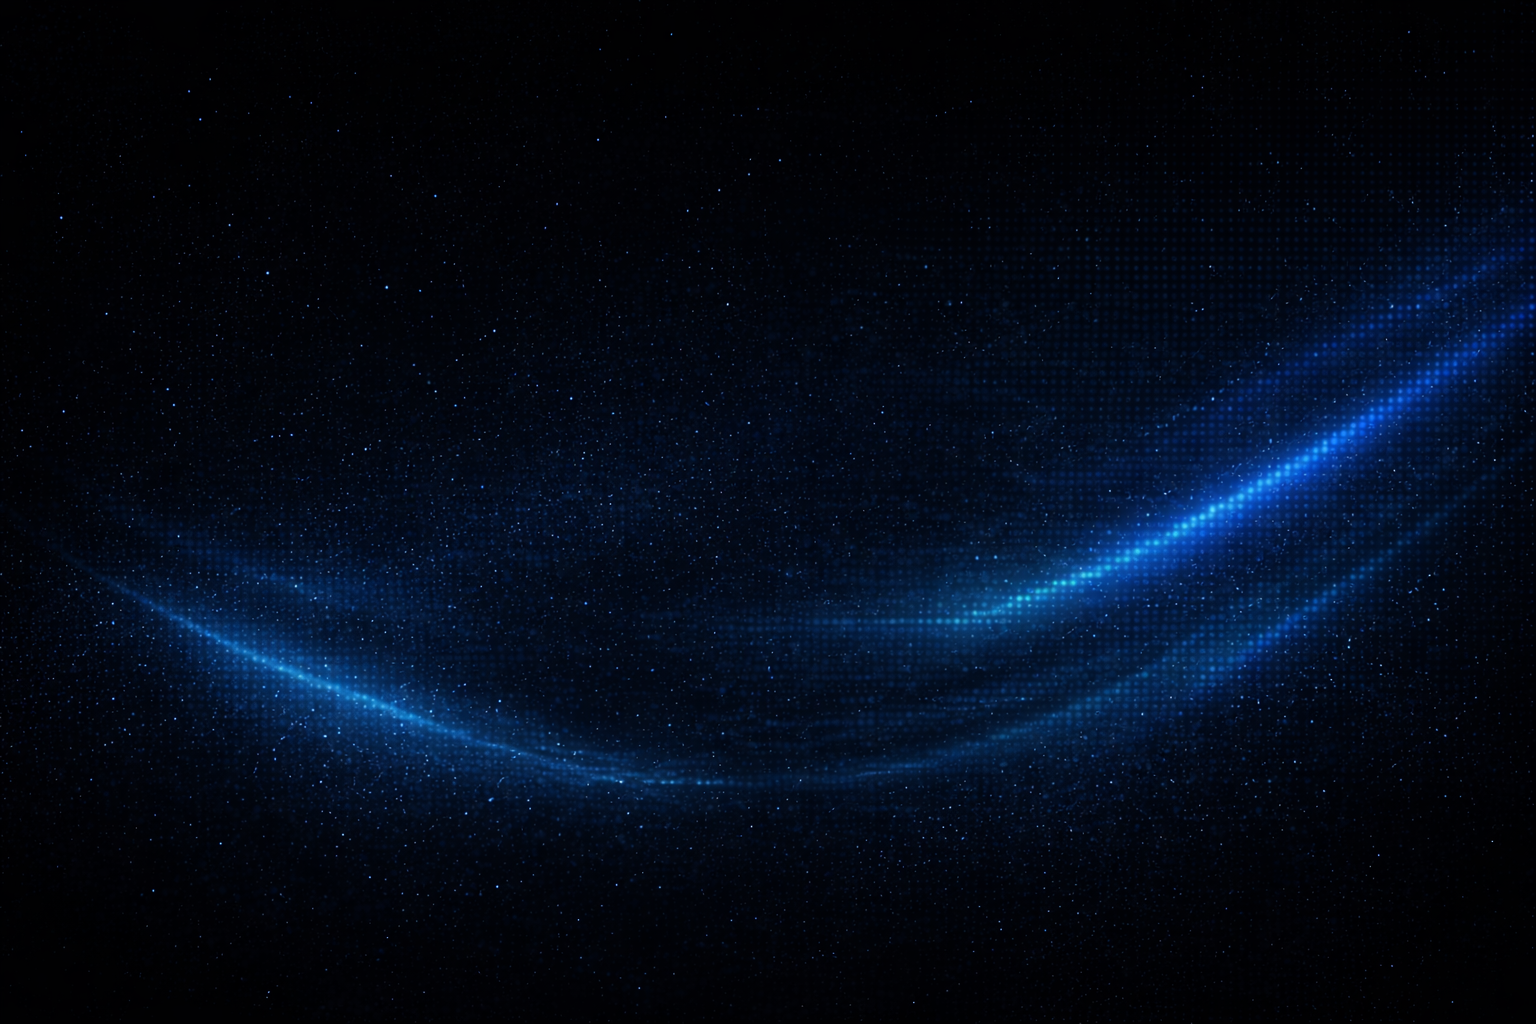
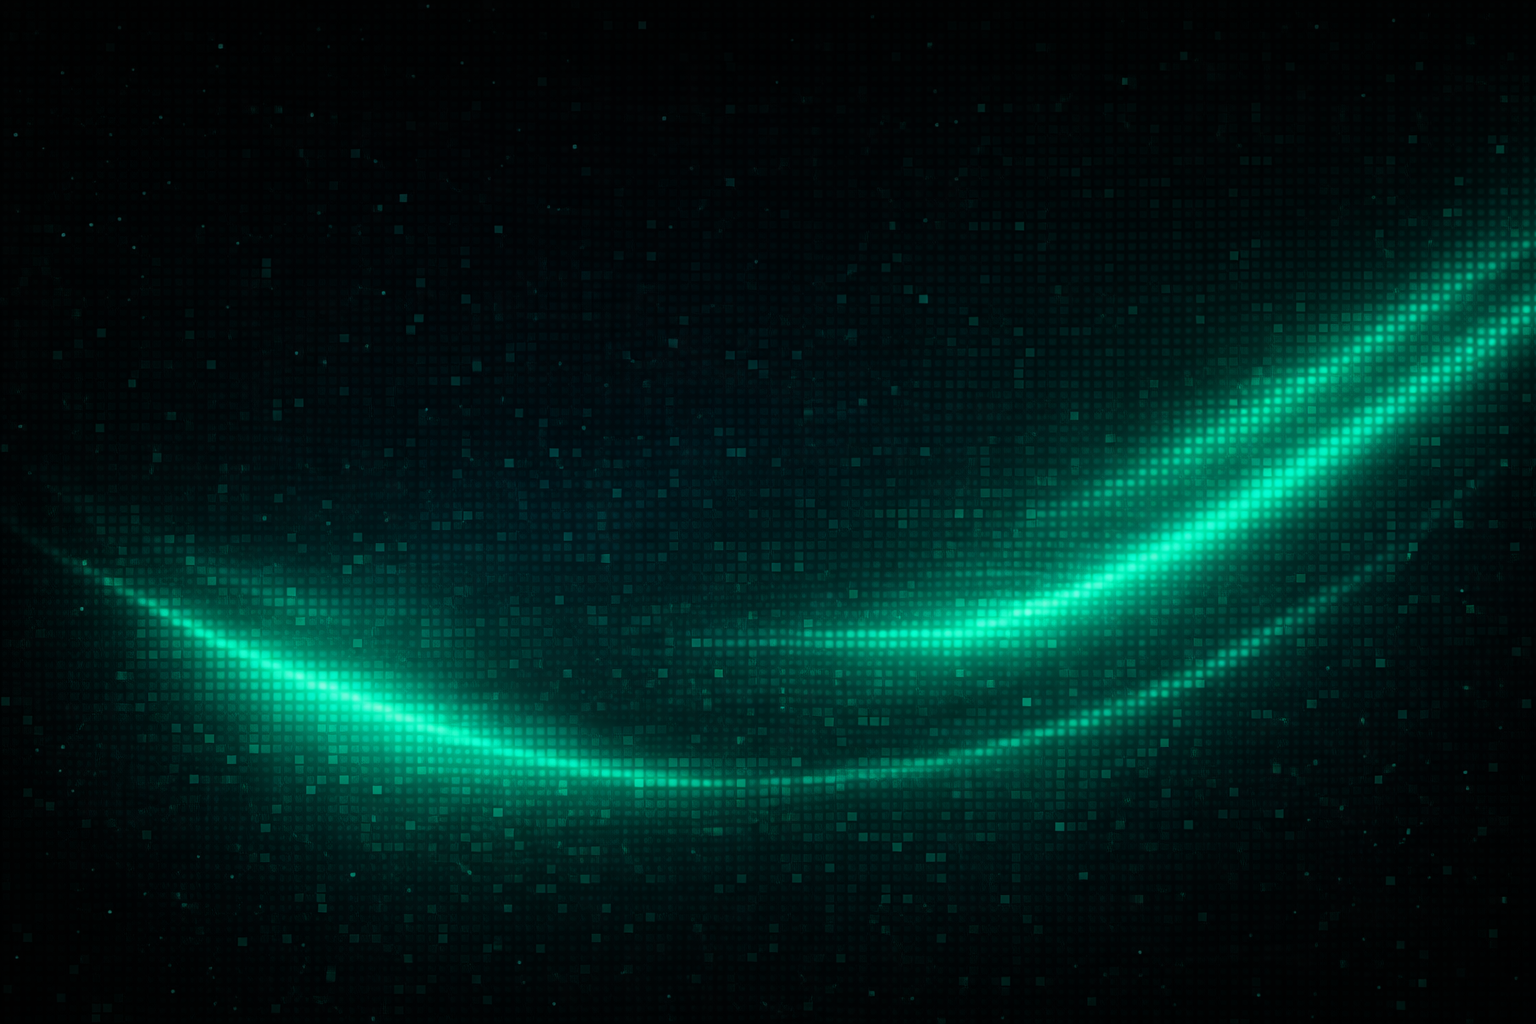
styles

diff --git a/src/assets/sass/main.scss b/src/assets/sass/main.scss
@@ -162,10 +162,8 @@ body {
 }
 
 .groupHeader {
-  min-height: 100vh;
   overflow: hidden;
   position: relative;
-
   .overlay {
     position: absolute;
     top: 0;
@@ -176,12 +174,12 @@ body {
   }
 }
 
-
 .groupHeader {
   background-color: var(--color-primary);
-  background-image: url('../image/background.png');
+  background-image: url("../image/background.png");
   background-size: cover;
   background-position: center right;
+  background-attachment: fixed;
 }
 
 .logoNav {
@@ -284,7 +282,7 @@ body {
   min-height: 100vh;
   width: 90%;
   margin: auto;
-  max-width: 1024px;
+  column-gap: 2rem;
 }
 
 .groupHeader-texts {
@@ -314,37 +312,43 @@ body {
   font-family: var(--font-primary);
   text-shadow: 0px 0px 15px #00ffff4f;
   font-weight: 400;
-  margin-bottom: .5rem;
+  margin-bottom: 0.5rem;
 }
-
 
 .button-header {
   margin: 1rem 0;
   text-decoration: none;
-    color: #000;
-    font-family: "Roboto Flex", sans-serif;
-    font-style: normal;
-    font-weight: 500;
-    line-height: normal;
-    text-transform: uppercase;
-    padding: 1rem 1.5rem;
-    display: -webkit-box;
-    display: -webkit-flex;
-    display: flex;
-    -webkit-box-pack: center;
-    justify-content: center;
-    -webkit-box-align: center;
-    align-items: center;
-    border-radius: 0 ;
-    border: none;
-    background: linear-gradient(90deg, #3DD598 0%, #2FD180 100%);
-    box-shadow: 0 4px 12px rgba(61, 213, 152, .4);
-    -webkit-transition: all 0.3s 
-ease-in-out;
-    transition: all 0.3s 
-ease-in-out;
-    font-size: 1.1rem;
-    letter-spacing: .05em;
+  color: #000;
+  font-family: "Roboto Flex", sans-serif;
+  font-style: normal;
+  font-weight: 500;
+  line-height: normal;
+  text-transform: uppercase;
+  padding: 1rem 1.5rem;
+  display: -webkit-box;
+  display: -webkit-flex;
+  display: flex;
+  -webkit-box-pack: center;
+  justify-content: center;
+  -webkit-box-align: center;
+  align-items: center;
+  border-radius: 0;
+  border: none;
+  background: linear-gradient(90deg, #3dd598 0%, #2fd180 100%);
+  box-shadow: -7px 7px 0px #ffffff;
+  transition: all 0.3s ease;
+  -webkit-transition: all 0.3s ease-in-out;
+  transition: all 0.3s ease-in-out;
+  font-size: 1.1rem;
+  letter-spacing: 0.05em;
+  cursor: pointer;
+
+  &:hover {
+    box-shadow: none;
+    background: linear-gradient(90deg, #3dd598 0%, #2fd180 100%);
+    color: #fff;
+    transform: scale(103%);
+  }
 }
 
 .title-secundary-header::before {
@@ -424,14 +428,60 @@ ease-in-out;
   color: var(--white);
   font-weight: 200;
   font-size: 1.1rem;
+  max-width: 33rem;
 }
 
+@keyframes sombrasPiscando {
+  0% {
+    filter:
+      drop-shadow(0px 0px 0px transparent)
+      drop-shadow(0px 0px 0px transparent)
+      drop-shadow(0px 0px 0px transparent);
+  }
+
+  20% {
+    filter:
+      drop-shadow(-33px 7px 0px #33daad4f)
+      drop-shadow(-27px 14px 0px #ffffff69)
+      drop-shadow(-47px 21px 0px #61b8ff70);
+  }
+
+  40% {
+    filter:
+      drop-shadow(0px 0px 0px transparent)
+      drop-shadow(0px 0px 0px transparent)
+      drop-shadow(0px 0px 0px transparent);
+  }
+
+  60% {
+    filter:
+     drop-shadow(-33px 7px 0px #61b8ff70)
+      drop-shadow(-27px 14px 0px #ffffff69)
+      drop-shadow(-47px 21px 0px #33daad4f);
+  }
+
+  80% {
+    filter:
+      drop-shadow(-33px 7px 0px #ffffff69)
+      drop-shadow(-27px 14px 0px #33daad4f)
+      drop-shadow(-47px 21px 0px #61b8ff70);
+  }
+
+  100% {
+    filter:
+      drop-shadow(0px 0px 0px transparent)
+      drop-shadow(0px 0px 0px transparent)
+      drop-shadow(0px 0px 0px transparent);
+  }
+}
+
+
 .groupHeader-img img {
-      width: 110%;
-    position: absolute;
-    left: -52%;
-    bottom: -54%;
-    filter:drop-shadow(-37px 18px 0px #33daad);
+  width: 86%;
+  position: absolute;
+  object-fit: cover;
+  bottom: 0;
+  animation: sombrasPiscando 5s ease-in-out infinite;
 }
 
 .groupSobre {
@@ -623,7 +673,7 @@ strong {
 .groupProjetos-categorys__item.active {
   transform: scale(1.1);
   /* Você pode adicionar um brilho para destacar mais */
-  filter: brightness(1.2); 
+  filter: brightness(1.2);
 }
 
 .groupProjetos-categorys {

diff --git a/src/assets/css/styles.css b/src/assets/css/styles.css
@@ -292,7 +292,6 @@ body {
 }
 
 .groupHeader {
-  min-height: 100vh;
   overflow: hidden;
   position: relative;
 }
@@ -310,6 +309,7 @@ body {
   background-image: url("../image/background.png");
   background-size: cover;
   background-position: center right;
+  background-attachment: fixed;
 }
 
 .logoNav {
@@ -412,7 +412,7 @@ body {
   min-height: 100vh;
   width: 90%;
   margin: auto;
-  max-width: 1024px;
+  column-gap: 2rem;
 }
 
 .groupHeader-texts {
@@ -464,12 +464,20 @@ body {
   align-items: center;
   border-radius: 0;
   border: none;
-  background: linear-gradient(90deg, #3DD598 0%, #2FD180 100%);
-  box-shadow: 0 4px 12px rgba(61, 213, 152, 0.4);
+  background: linear-gradient(90deg, #3dd598 0%, #2fd180 100%);
+  box-shadow: -7px 7px 0px #ffffff;
+  transition: all 0.3s ease;
   -webkit-transition: all 0.3s ease-in-out;
   transition: all 0.3s ease-in-out;
   font-size: 1.1rem;
   letter-spacing: 0.05em;
+  cursor: pointer;
+}
+.button-header:hover {
+  box-shadow: none;
+  background: linear-gradient(90deg, #3dd598 0%, #2fd180 100%);
+  color: #fff;
+  transform: scale(103%);
 }
 
 .title-secundary-header::before {
@@ -548,14 +556,35 @@ body {
   color: var(--white);
   font-weight: 200;
   font-size: 1.1rem;
+  max-width: 33rem;
 }
 
+@keyframes sombrasPiscando {
+  0% {
+    filter: drop-shadow(0px 0px 0px transparent) drop-shadow(0px 0px 0px transparent) drop-shadow(0px 0px 0px transparent);
+  }
+  20% {
+    filter: drop-shadow(-33px 7px 0px rgba(51, 218, 173, 0.3098039216)) drop-shadow(-27px 14px 0px rgba(255, 255, 255, 0.4117647059)) drop-shadow(-47px 21px 0px rgba(97, 184, 255, 0.4392156863));
+  }
+  40% {
+    filter: drop-shadow(0px 0px 0px transparent) drop-shadow(0px 0px 0px transparent) drop-shadow(0px 0px 0px transparent);
+  }
+  60% {
+    filter: drop-shadow(-33px 7px 0px rgba(97, 184, 255, 0.4392156863)) drop-shadow(-27px 14px 0px rgba(255, 255, 255, 0.4117647059)) drop-shadow(-47px 21px 0px rgba(51, 218, 173, 0.3098039216));
+  }
+  80% {
+    filter: drop-shadow(-33px 7px 0px rgba(255, 255, 255, 0.4117647059)) drop-shadow(-27px 14px 0px rgba(51, 218, 173, 0.3098039216)) drop-shadow(-47px 21px 0px rgba(97, 184, 255, 0.4392156863));
+  }
+  100% {
+    filter: drop-shadow(0px 0px 0px transparent) drop-shadow(0px 0px 0px transparent) drop-shadow(0px 0px 0px transparent);
+  }
+}
 .groupHeader-img img {
-  width: 110%;
+  width: 86%;
   position: absolute;
-  left: -52%;
-  bottom: -54%;
-  filter: drop-shadow(-37px 18px 0px #33daad);
+  object-fit: cover;
+  bottom: 0;
+  animation: sombrasPiscando 5s ease-in-out infinite;
 }
 
 .groupSobre {
